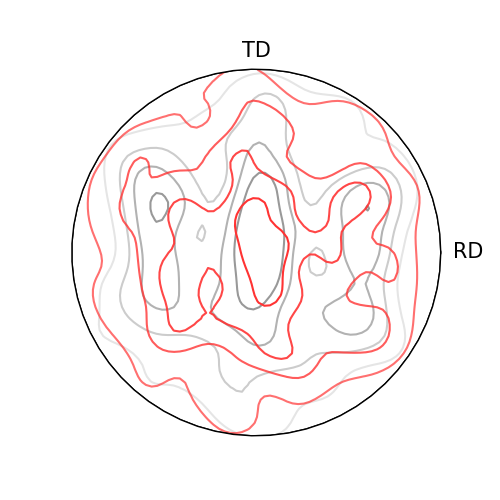
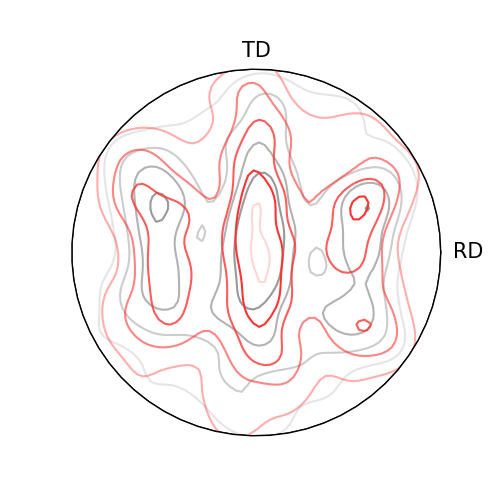
grain overhaul for x-constrained mesh

Changed region(s): [[0.15, 0.12, 0.84, 0.87], [0.24, 0.21, 0.36, 0.27], [0.42, 0.15, 0.45, 0.18]]

diff --git a/5. ASMBO/plot_opts.py b/5. ASMBO/plot_opts.py
@@ -25,57 +25,48 @@ ASMBO_PATH = "/mnt/c/Users/janzen/OneDrive - UNSW/PhD/results/asmbo"
 MOOSE_PATH = "/mnt/c/Users/janzen/OneDrive - UNSW/PhD/results/moose_sim"
 SIM_INFO_LIST = [
 
-    # Pinned Voce Hardening Model
-    {"label": "Run 1", "alpha": 0.3, "ebsd_id": "ebsd_4", "colour": "tab:green", "path": f"{ASMBO_PATH}/2025-03-06 (vh_pin2_sm8_i40)/250306051551_i27_simulate"},
-    {"label": "Run 2", "alpha": 0.3, "ebsd_id": "ebsd_4", "colour": "tab:green", "path": f"{ASMBO_PATH}/2025-03-09 (vh_pin2_sm8_i22)/250309175121_i10_simulate"},
-    {"label": "Run 3", "alpha": 0.3, "ebsd_id": "ebsd_4", "colour": "tab:green", "path": f"{ASMBO_PATH}/2025-03-09 (vh_pin2_sm8_i25)/250308143546_i4_simulate"},
-    {"label": "Run 4", "alpha": 1.0, "ebsd_id": "ebsd_4", "colour": "tab:green", "path": f"{ASMBO_PATH}/2025-03-10 (vh_pin2_sm8_i25)/250310145710_i22_simulate"},
-    {"label": "Run 5", "alpha": 0.3, "ebsd_id": "ebsd_4", "colour": "tab:green", "path": f"{ASMBO_PATH}/2025-03-11 (vh_pin2_sm8_i29)/250311135934_i19_simulate"},
-    
-    # Unpinned Voce Hardening Model
-    # {"label": "Run 1", "alpha": 0.3, "ebsd_id": "ebsd_4", "colour": "tab:green",   "path": f"{ASMBO_PATH}/2025-02-28 (vh_pinned_sm8_i29)/250228104126_i28_simulate"},
-    # {"label": "Run 2", "alpha": 0.3, "ebsd_id": "ebsd_4", "colour": "tab:green",   "path": f"{ASMBO_PATH}/2025-03-01 (vh_pinned_sm8_i56)/250228195658_i20_simulate"},
-    # {"label": "Run 3", "alpha": 0.3, "ebsd_id": "ebsd_4", "colour": "tab:green",   "path": f"{ASMBO_PATH}/2025-03-02 (vh_pinned_sm8_i39)/250302135720_i38_simulate"},
-    # {"label": "Run 4", "alpha": 1.0, "ebsd_id": "ebsd_4", "colour": "tab:green",   "path": f"{ASMBO_PATH}/2025-03-03 (vh_pinned_sm8_i43)/250303022723_i26_simulate"},
-    # {"label": "Run 5", "alpha": 0.3, "ebsd_id": "ebsd_4", "colour": "tab:green",   "path": f"{ASMBO_PATH}/2025-03-04 (vh_pinned_sm8_i29)/250304122851_i20_simulate"},
-    # {"label": "Low-fidelity",  "alpha": 1.0, "ebsd_id": "ebsd_4", "colour": "tab:green", "path": f"{ASMBO_PATH}/2025-03-03 (vh_pinned_sm8_i43)/250303022723_i26_simulate"},
-    # {"label": "High-fidelity", "alpha": 1.0, "ebsd_id": "ebsd_2", "colour": "tab:red",   "path": f"{MOOSE_PATH}/2025-03-05 (617_s3_vh_10um_pin2)"},
+    {"label": "Hold X",   "alpha": 1.0, "ebsd_id": "ebsd_4", "colour": "tab:green", "path": f"{MOOSE_PATH}/2025-03-15 (617_s3_vh_x)"},
 
-    # Two-coefficient latent hardening model
-    # {"label": "Low-fidelity",  "alpha": 1.0, "ebsd_id": "ebsd_4", "colour": "tab:green", "path": f"{ASMBO_PATH}/2025-02-06 (lh2_sm8_i15)/250206013451_i12_simulate"},
-    # {"label": "High-fidelity", "alpha": 1.0, "ebsd_id": "ebsd_2", "colour": "tab:red",   "path": f"{MOOSE_PATH}/2025-02-09 (617_s3_10um_lh2)"},
-    
-    # Six-coefficient latent hardening model
-    # {"label": "Low-fidelity",  "alpha": 1.0, "ebsd_id": "ebsd_4", "colour": "tab:green", "path": f"{ASMBO_PATH}/2025-02-14 (lh6_sm16_i34)/250213134340_i26_simulate"},
-    # {"label": "High-fidelity", "alpha": 1.0, "ebsd_id": "ebsd_2", "colour": "tab:red",   "path": f"{MOOSE_PATH}/2025-02-14 (617_s3_10um_lh6)"},
-    
-    # All high-fidelity
-    # {"label": "VH",   "alpha": 1.0, "ebsd_id": "ebsd_2", "colour": "tab:cyan",   "path": f"{MOOSE_PATH}/2025-02-04 (617_s3_10um_vh)"},
-    # {"label": "LH2",  "alpha": 1.0, "ebsd_id": "ebsd_2", "colour": "tab:orange", "path": f"{MOOSE_PATH}/2025-02-09 (617_s3_10um_lh2)"},
-    # {"label": "LH6",  "alpha": 1.0, "ebsd_id": "ebsd_2", "colour": "tab:purple", "path": f"{MOOSE_PATH}/2025-02-14 (617_s3_10um_lh6)"},
+    # {"label": "Run 1", "alpha": 0.3, "ebsd_id": "ebsd_4", "colour": "tab:green", "path": f"{ASMBO_PATH}/2025-03-06 (vh_pin2_sm8_i40)/250306051551_i27_simulate"},
+    # {"label": "Run 2", "alpha": 0.3, "ebsd_id": "ebsd_4", "colour": "tab:green", "path": f"{ASMBO_PATH}/2025-03-09 (vh_pin2_sm8_i22)/250309175121_i10_simulate"},
+    # {"label": "Run 3", "alpha": 0.3, "ebsd_id": "ebsd_4", "colour": "tab:green", "path": f"{ASMBO_PATH}/2025-03-09 (vh_pin2_sm8_i25)/250308143546_i4_simulate"},
+    # {"label": "Run 4", "alpha": 1.0, "ebsd_id": "ebsd_4", "colour": "tab:green", "path": f"{ASMBO_PATH}/2025-03-10 (vh_pin2_sm8_i25)/250310145710_i22_simulate"},
+    # {"label": "Run 5", "alpha": 0.3, "ebsd_id": "ebsd_4", "colour": "tab:green", "path": f"{ASMBO_PATH}/2025-03-11 (vh_pin2_sm8_i29)/250311135934_i19_simulate"},
+
+    # {"label": "Hold XYZ", "alpha": 1.0, "ebsd_id": "ebsd_4", "colour": "tab:red",   "path": f"{ASMBO_PATH}/2025-03-03 (vh_pinned_sm8_i43)/250303022723_i26_simulate"},
+    # {"label": "Hold X",   "alpha": 1.0, "ebsd_id": "ebsd_4", "colour": "tab:green", "path": f"{MOOSE_PATH}/2025-03-15 (617_s3_vh_x)"},
+    # {"label": "Hold XYZ", "alpha": 1.0, "ebsd_id": "ebsd_4", "colour": "tab:red",    "path": f"{MOOSE_PATH}/2025-03-14 (617_s3_vh_xyz)"},
+    # {"label": "Hold XZ",  "alpha": 1.0, "ebsd_id": "ebsd_4", "colour": "tab:green",  "path": f"{MOOSE_PATH}/2025-03-13 (617_s3_vh_sbc)"},
+    # {"label": "Hold XY",  "alpha": 1.0, "ebsd_id": "ebsd_4", "colour": "tab:blue",   "path": f"{MOOSE_PATH}/2025-03-14 (617_s3_vh_xy)"},
+    # {"label": "Neumann",  "alpha": 1.0, "ebsd_id": "ebsd_4", "colour": "tab:purple", "path": f"{MOOSE_PATH}/2025-03-14 (617_s3_vh_nbc)"},
+
+    # Boundary conditions
+    # {"label": "Over-",      "alpha": 1.0, "ebsd_id": "ebsd_4", "colour": "tab:red",   "path": f"{ASMBO_PATH}/2025/2025-01-19 (vh_sm8_i22)/250119093435_i13_simulate"},
+    # {"label": "Assymetric", "alpha": 1.0, "ebsd_id": "ebsd_4", "colour": "tab:green", "path": f"{MOOSE_PATH}/2025-03-05 (617_s3_vh_40um_pin2)"},
+    # {"label": "Symmetric",  "alpha": 1.0, "ebsd_id": "ebsd_4", "colour": "tab:blue",  "path": f"{MOOSE_PATH}/2025-03-13 (617_s3_vh_sbc)"},
+    # {"label": "Assymetric", "alpha": 1.0, "ebsd_id": "ebsd_4", "colour": "tab:green", "path": f"{ASMBO_PATH}/2025-03-10 (vh_pin2_sm8_i25)/250310145710_i22_simulate"},
+    # {"label": "Symmetric",  "alpha": 1.0, "ebsd_id": "ebsd_4", "colour": "tab:blue",  "path": f"{ASMBO_PATH}/2025-03-14 (vh_sbc_sm8_i37)/250314054502_i24_simulate"},
 ]
 for si in SIM_INFO_LIST:
     si["data"] = csv_to_dict(f"{si['path']}/summary.csv")
 
 # Grain IDs
 GRAIN_IDS = [
-    # [51, 56, 72, 80, 126, 223, 237, 262], # Calibration
-    # [44, 50, 60, 178, 190, 207, 278, 299] # Validation
-    [60, 79, 178, 189, 190, 215, 237, 278], # Pin 2 Calibration
-    [14, 56, 72, 101, 223, 255, 262, 299],  # Pin 2 Validation
+    [14, 72, 95, 101, 207, 240, 262, 287],  # Calibration
+    [39, 50, 138, 164, 185, 223, 243, 238], # Validation
 ]
 
 # Other Constants
 STRAIN_FIELD = "average_strain"
 STRESS_FIELD = "average_stress"
 RES_DATA_MAP = "data/res_grain_map.csv"
-# SPACING      = -2.25
-SPACING      = -5.25
+SPACING      = -2.25
+# SPACING      = -5.25
 # SPACING      = -6.25
 
 # Script parameters
 SHOW_LEGEND   = True
-SHOW_GRAIN_ID = False
+SHOW_GRAIN_ID = True
 
 # Main function
 def main():

diff --git a/4. TORCH/coverage.py b/4. TORCH/coverage.py
@@ -15,11 +15,10 @@ from __common__.pole_figure import get_lattice, IPF
 from __common__.plotter import save_plot, Plotter
 
 # Constants
-SAMPLED_DIR  = f"2025-03-06 (vh_pin2_sm8_i40)/250306051551_i27_simulate"
+SAMPLED_DIR  = f"2025-03-06 (vh_pin2_sm8_i1)"
 EXP_PATH     = "data/617_s3_exp.csv"
 RESULTS_DIR  = "/mnt/c/Users/janzen/OneDrive - UNSW/PhD/results/asmbo"
-# GRAIN_IDS    = [255, 242, 295, 286, 141, 273, 207, 299, 149, 101, 278, 80, 280, 276, 159, 277, 244, 193, 77, 264, 281, 117, 120, 178, 223, 157, 72]
-GRAIN_IDS    = [59, 63, 86, 237, 303]
+GRAIN_IDS    = []
 STRAIN_FIELD = "average_strain"
 STRESS_FIELD = "average_stress"
 EXP_COLOUR   = "silver"
@@ -38,8 +37,8 @@ def main():
     sim_path_list = [f"{dir_path}/summary.csv" for dir_path in dir_path_list]
     sim_dict_list = [csv_to_dict(sim_path) for sim_path in sim_path_list]
 
-    # Plot stress-strain coverage
-    plot_ss(exp_dict, sim_dict_list, "results/plot_cvg_ss.png")
+    # # Plot stress-strain coverage
+    # plot_ss(exp_dict, sim_dict_list, "results/plot_cvg_ss.png")
 
     # Plot reorientation trajectory coverage
     all_grain_ids = sorted([int(key.replace("_phi_1","").replace("g","")) for key in sim_dict_list[0].keys() if "_phi_1" in key])
@@ -96,19 +95,19 @@ def plot_rt(exp_dict:dict, sim_dict_list:list, grain_ids:list, path:str=""):
     # Plot experimental reorientation trajectories
     exp_trajectories = get_trajectories(exp_dict)
     ipf.plot_ipf_trajectory(exp_trajectories, direction, "plot", {"color": EXP_COLOUR, "linewidth": 3})
-    ipf.plot_ipf_trajectory(exp_trajectories, direction, "arrow", {"color": EXP_COLOUR, "head_width": 0.01, "head_length": 0.015})
-    ipf.plot_ipf_trajectory([[et[0]] for et in exp_trajectories], direction, "scatter", {"color": EXP_COLOUR, "s": 8**2})
+    # ipf.plot_ipf_trajectory(exp_trajectories, direction, "arrow", {"color": EXP_COLOUR, "head_width": 0.01, "head_length": 0.015})
+    # ipf.plot_ipf_trajectory([[et[0]] for et in exp_trajectories], direction, "scatter", {"color": EXP_COLOUR, "s": 8**2})
 
     # Plot simulated reorientation trajectories
     for sim_dict in sim_dict_list:
         cal_trajectories = get_trajectories(sim_dict)
         ipf.plot_ipf_trajectory(cal_trajectories, direction, "plot", {"color": SIM_COLOUR, "linewidth": 2, "zorder": 3})
-        ipf.plot_ipf_trajectory(cal_trajectories, direction, "arrow", {"color": SIM_COLOUR, "head_width": 0.0075, "head_length": 0.0075*1.5, "zorder": 3})
-        ipf.plot_ipf_trajectory([[ct[0]] for ct in cal_trajectories], direction, "scatter", {"color": SIM_COLOUR, "s": 6**2, "zorder": 3})
+        # ipf.plot_ipf_trajectory(cal_trajectories, direction, "arrow", {"color": SIM_COLOUR, "head_width": 0.0075, "head_length": 0.0075*1.5, "zorder": 3})
+        # ipf.plot_ipf_trajectory([[ct[0]] for ct in cal_trajectories], direction, "scatter", {"color": SIM_COLOUR, "s": 6**2, "zorder": 3})
     
     # Plot grain ID
     for exp_trajectory, grain_id in zip(exp_trajectories, grain_ids):
-        ipf.plot_ipf_trajectory([[exp_trajectory[0]]], direction, "text", {"color": "blue", "fontsize": 8, "s": grain_id, "zorder": 3})
+        ipf.plot_ipf_trajectory([[exp_trajectory[0]]], direction, "text", {"color": "red", "fontsize": 16, "s": grain_id, "zorder": 3})
 
     # Format and save IPF plot
     handles = [

diff --git a/5. ASMBO/texture.py b/5. ASMBO/texture.py
@@ -16,14 +16,19 @@ from __common__.interpolator import intervaluate
 
 # Paths
 EXP_PATH     = "data/617_s3_40um_exp.csv"
-DATA_PATH    = "/mnt/c/Users/janzen/OneDrive - UNSW/PhD/results/"
+ASMBO_PATH = "/mnt/c/Users/janzen/OneDrive - UNSW/PhD/results/asmbo"
+MOOSE_PATH = "/mnt/c/Users/janzen/OneDrive - UNSW/PhD/results/moose_sim"
 RESULTS_PATH = "results/pf"
 
 # Simulation information
 SIM_INFO_LIST = [
-    # {"path": f"{DATA_PATH}/asmbo/2025-03-03 (vh_pinned_sm8_i43)/250303022723_i26_simulate", "colour": (1.0, 0.2, 0.2), "alpha": (0.2, 1.0)},
-    {"path": f"{DATA_PATH}/asmbo/2025-03-06 (vh_pin2_sm8_i40)/250306051551_i27_simulate", "colour": (1.0, 0.2, 0.2), "alpha": (0.6, 1.0)},
-    # {"path": f"{DATA_PATH}/asmbo/2025-03-09 (vh_pin2_sm8_i22)/250309175121_i10_simulate", "colour": (1.0, 0.2, 0.2), "alpha": (0.6, 1.0)}
+    {"path": f"{MOOSE_PATH}//2025-03-15 (617_s3_vh_x)", "colour": (1.0, 0.2, 0.2), "alpha": (0.2, 1.0)},
+    # {"path": f"{ASMBO_PATH}/2025-03-03 (vh_pinned_sm8_i43)/250303022723_i26_simulate", "colour": (1.0, 0.2, 0.2), "alpha": (0.2, 1.0)},
+    # {"path": f"{MOOSE_PATH}/2025-03-15 (617_s3_vh_c44d2)", "colour": (1.0, 0.2, 0.2), "alpha": (0.2, 1.0)},
+    # {"path": f"{ASMBO_PATH}/2025-03-14 (vh_sbc_sm8_i37)/250314054502_i24_simulate", "colour": (1.0, 0.2, 0.2), "alpha": (0.2, 1.0)},
+    # {"path": f"{ASMBO_PATH}/2025-03-03 (vh_pinned_sm8_i43)/250303022723_i26_simulate", "colour": (1.0, 0.2, 0.2), "alpha": (0.2, 1.0)},
+    # {"path": f"{ASMBO_PATH}/2025-03-06 (vh_pin2_sm8_i40)/250306051551_i27_simulate", "colour": (1.0, 0.2, 0.2), "alpha": (0.6, 1.0)},
+    # {"path": f"{ASMBO_PATH}/2025-03-09 (vh_pin2_sm8_i22)/250309175121_i10_simulate", "colour": (1.0, 0.2, 0.2), "alpha": (0.6, 1.0)}
 ]
 EXP_COLOUR = {"colour": (0, 0, 0), "alpha": (0, 0.4)}
 

diff --git a/4. TORCH/plot_opt.py b/4. TORCH/plot_opt.py
@@ -21,8 +21,8 @@ SIM_PATH = f"/mnt/c/Users/janzen/OneDrive - UNSW/PhD/results/asmbo/{SIM_FILE}/su
 # SIM_PATH = f"/mnt/c/Users/janzen/OneDrive - UNSW/PhD/results/moose_sim/{SIM_FILE}/summary.csv"
 
 # Simulation information
-CAL_GRAIN_IDS = [60, 79, 178, 189, 190, 215, 237, 278]
-VAL_GRAIN_IDS = [14, 56, 72, 101, 223, 255, 262, 299]
+CAL_GRAIN_IDS = [14, 72, 95, 101, 207, 240, 262, 287]
+VAL_GRAIN_IDS = [39, 50, 138, 164, 185, 223, 243, 238]
 STRAIN_FIELD = "average_strain"
 STRESS_FIELD = "average_stress"
 RES_DATA_MAP = "data/res_grain_map.csv"

diff --git a/4. TORCH/__old__/comp_sm.py b/4. TORCH/__old__/comp_sm.py
@@ -53,8 +53,8 @@ OPT_PATHS = [f"{OPT_PATH}/{opt_path}" for opt_path in [
 PARAM_NAMES   = [f"cp_lh_{i}" for i in range(2)] + ["cp_tau_0", "cp_n"]
 EVAL_STRAINS  = np.linspace(0, 0.1, 50)
 MAX_STRAIN    = 0.1
-CAL_GRAIN_IDS = [60, 79, 178, 189, 190, 215, 237, 278]
-VAL_GRAIN_IDS = [14, 56, 72, 101, 223, 255, 262, 299]
+CAL_GRAIN_IDS = [14, 72, 95, 101, 207, 240, 262, 287]
+VAL_GRAIN_IDS = [39, 50, 138, 164, 185, 223, 243, 238]
 
 # Plotting Parameters
 X_LABEL       = "Initial Training Dataset Size"

diff --git a/4. TORCH/err_opt.py b/4. TORCH/err_opt.py
@@ -22,8 +22,8 @@ SIM_PATHS = [f"{SIMS_PATH}/{sim_dir}/summary.csv" for sim_dir in [
     "2024-11-28 (617_s3_40um_lh2_i1)",
     "2024-11-30 (617_s3_40um_lh2_i2)",
 ]]
-CAL_GRAIN_IDS = [60, 79, 178, 189, 190, 215, 237, 278]
-VAL_GRAIN_IDS = [14, 56, 72, 101, 223, 255, 262, 299]
+CAL_GRAIN_IDS = [14, 72, 95, 101, 207, 240, 262, 287]
+VAL_GRAIN_IDS = [39, 50, 138, 164, 185, 223, 243, 238]
 
 # Main function
 def main():

diff --git a/4. TORCH/__old__/plot_sm.py b/4. TORCH/__old__/plot_sm.py
@@ -23,8 +23,8 @@ MAP_PATH = f"{DIRECTORY}/map.csv"
 # Constants
 MAX_STRAIN = 0.1
 PARAM_LIST = [10.607, 120.94, 396.76, 1.0305, 7.26E-05]
-CAL_GRAIN_IDS = [60, 79, 178, 189, 190, 215, 237, 278]
-VAL_GRAIN_IDS = [14, 56, 72, 101, 223, 255, 262, 299]
+CAL_GRAIN_IDS = [14, 72, 95, 101, 207, 240, 262, 287]
+VAL_GRAIN_IDS = [39, 50, 138, 164, 185, 223, 243, 238]
 
 # Main function
 def main():

diff --git a/5. ASMBO/sm_error.py b/5. ASMBO/sm_error.py
@@ -16,7 +16,7 @@ from __common__.plotter import save_plot
 from __common__.surrogate import Model
 
 # Paths
-ASMBO_DIR     = "2025-03-11 (vh_pin2_sm8_i29)"
+ASMBO_DIR     = "2025-03-14 (vh_sbc_sm8_i37)"
 SIM_DATA_PATH = f"/mnt/c/Users/janzen/OneDrive - UNSW/PhD/results/asmbo/{ASMBO_DIR}"
 EXP_DATA_PATH = "data/617_s3_40um_exp.csv"
 RESULTS_PATH  = "results"

diff --git a/4. TORCH/__old__/err_sm.py b/4. TORCH/__old__/err_sm.py
@@ -28,8 +28,8 @@ SM_DICT  = [
 # Constants
 EVAL_STRAINS  = np.linspace(0, 0.1, 32)
 MAX_STRAIN    = 0.1
-CAL_GRAIN_IDS = [60, 79, 178, 189, 190, 215, 237, 278]
-VAL_GRAIN_IDS = [14, 56, 72, 101, 223, 255, 262, 299]
+CAL_GRAIN_IDS = [14, 72, 95, 101, 207, 240, 262, 287]
+VAL_GRAIN_IDS = [39, 50, 138, 164, 185, 223, 243, 238]
 
 # Main function
 def main():
